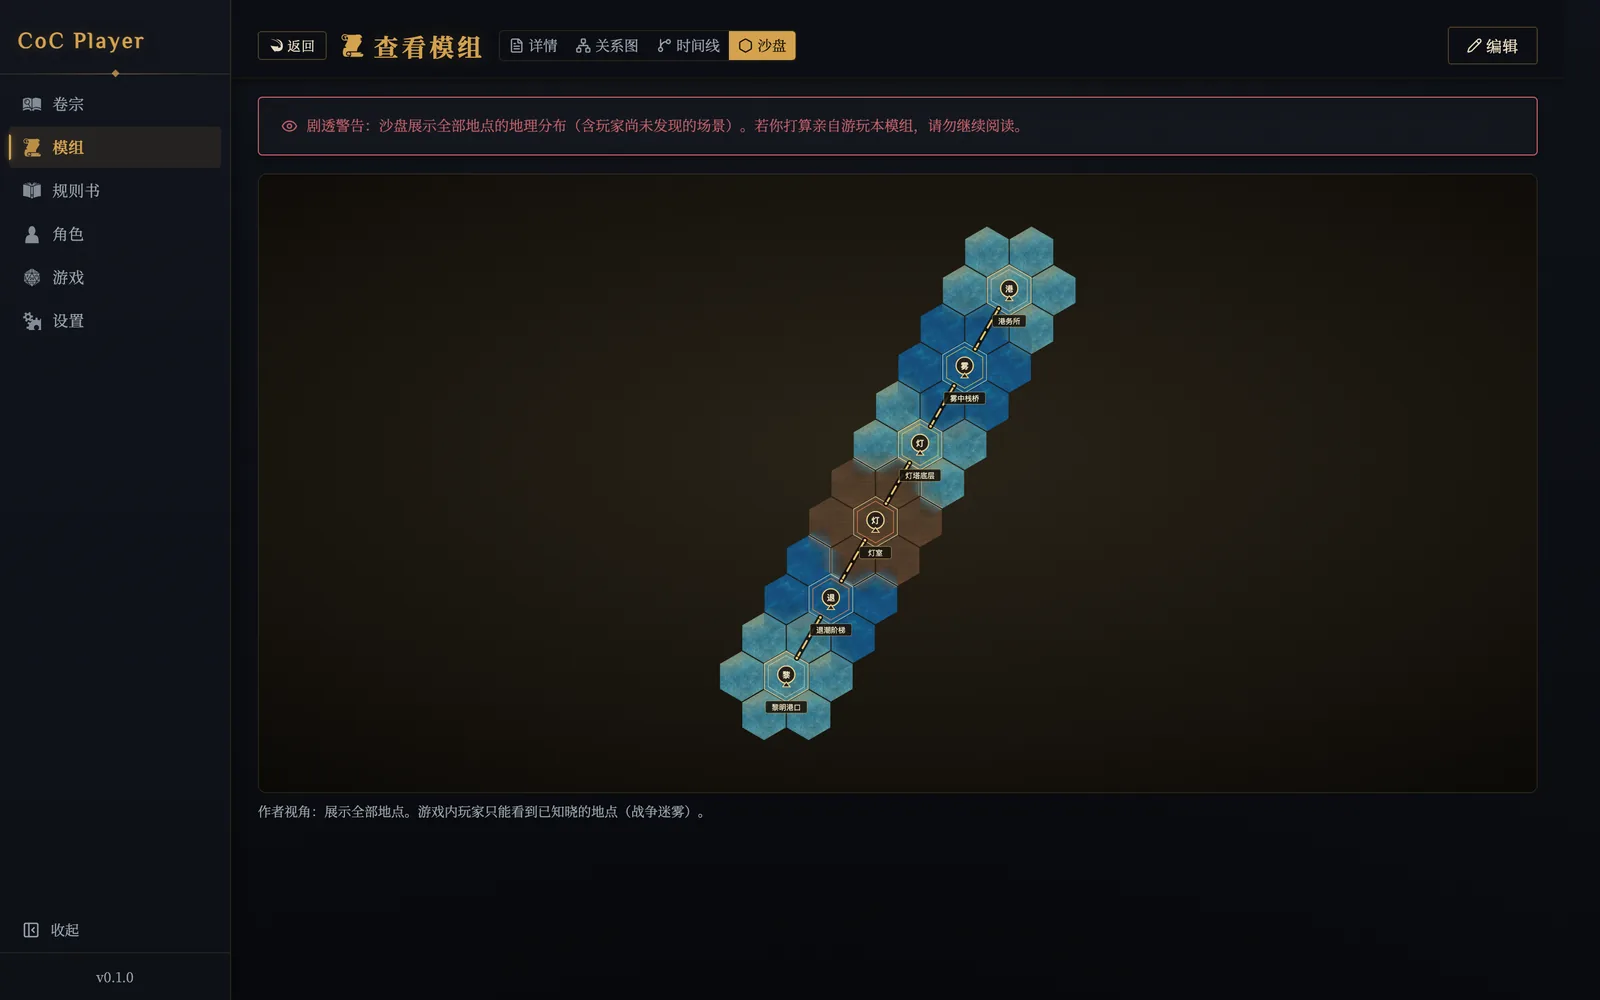
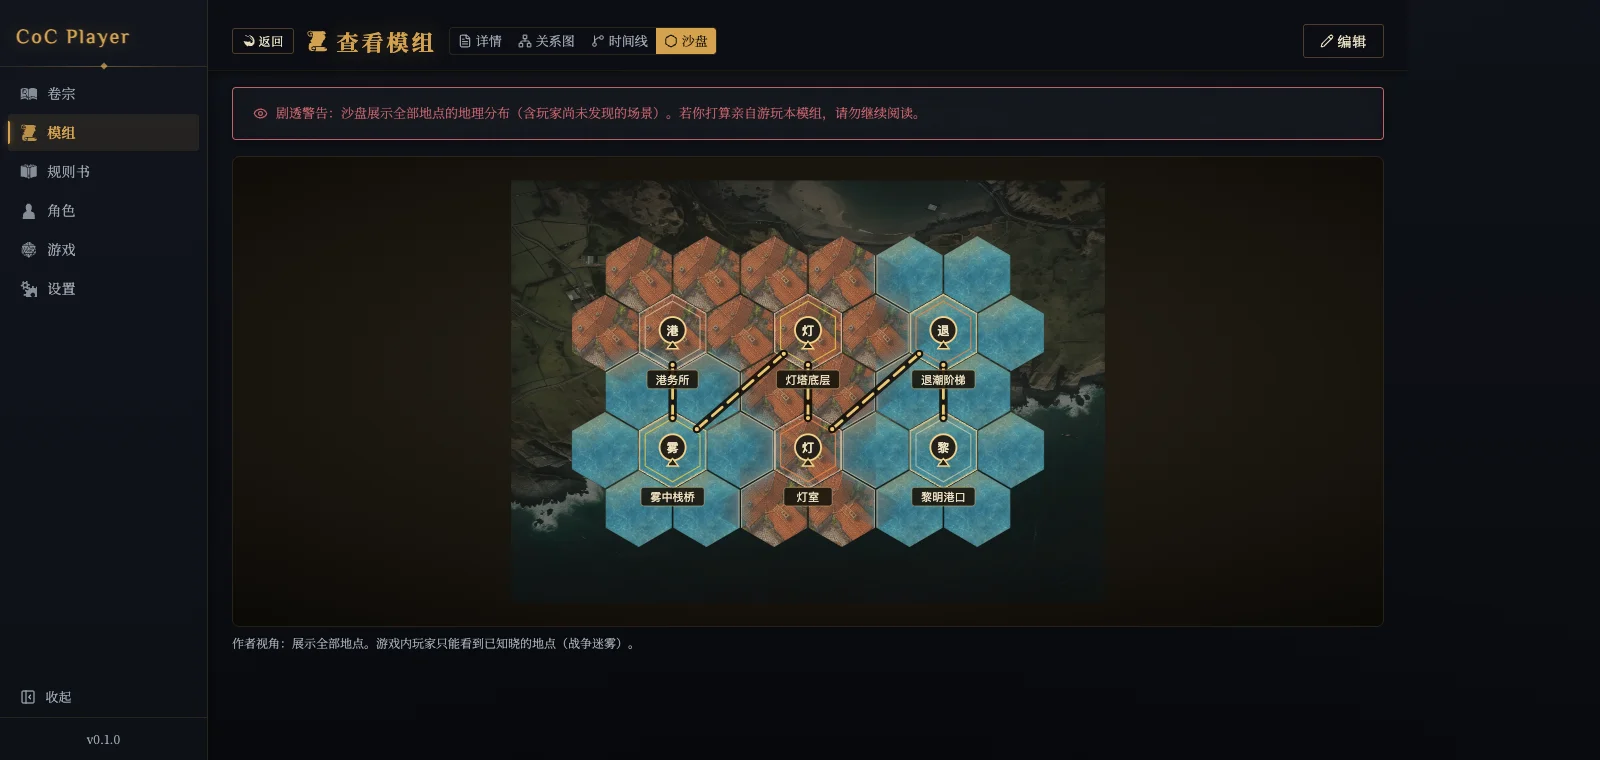
介绍页截图改成一条命令重拍，顺手修掉截错的两页
site/ 那十张图（gothic / parchment 各五张）随界面一起过时了，而介绍页上摆着
过时截图，比文案有 AI 味更容易被人一眼看穿。手动重拍要切两次主题、跑五个页面、
再逐张转 webp，做一次就不想做第二次，所以固化成 pnpm site:shots。

重拍时发现三个问题：

- 「模组沙盘」和「创建角色向导」两张，路径直接给成了 /modules 和 /characters，
  截到的是列表页，跟 alt 描述的六边形沙盘、六步向导对不上。截错页面比截图过时
  更糟，所以脚本里带上到达路径（挑出 alt 点名的那个本子、点进沙盘 / 点开建卡）。
- 设置页截到了本机真实的模型配置，接口地址（含第三方中转站）都在图里，而 site/
  是要公开发布的。这张配的是「接一个模型」那一步，读者正是还没配过的人——拦掉
  接口拿空状态，既贴题又不外泄。
- 高度原先统一给 760，内容少的页（规则书、建卡、设置）截出大半张空背景。改成按
  各页内容量单独给，index.html 的 width/height 同步跟上，CLS 不受影响。

首页只在有开着的桌时才多出「接着玩」一块，高度按没有桌这个下限给；它成了张 3.8:1
的扁图，社交卡片按 1.91:1 裁会切掉大半，og:image 改用比例接近、画面又满的沙盘图。

依赖用 playwright-core 而不是 playwright：后者 postinstall 会拉三套浏览器（几百
MB），而脚本用 channel: 'chrome' 驱动系统已装的 Chrome，那些一个都用不上。

diff --git a/site/index.html b/site/index.html
@@ -10,7 +10,7 @@
 <meta property="og:title" content="CoC Player —— AI 当守秘人的本地跑团桌面应用">
 <meta property="og:description" content="AI 担任守秘人和 NPC，一个人也能开团。本地优先，数据存在自己机器上。macOS / Windows 桌面应用。">
 <!-- 部署到正式域名后，把下面两行换成绝对地址，否则部分平台抓不到预览图 -->
-<meta property="og:image" content="assets/shots/gothic-home.webp">
+<meta property="og:image" content="assets/shots/gothic-sandbox.webp">
 <meta name="twitter:card" content="summary_large_image">
 <meta name="theme-color" content="#0c0e13">
 
@@ -529,8 +529,8 @@
       </div>
 
       <figure class="shot" style="margin-bottom:0">
-        <img src="assets/shots/gothic-home.webp" data-shot="home" width="2000" height="1250"
-             alt="CoC Player 首页：体验新手团、开始游戏、上传模组三个入口，下方是给新人的跑团与 CoC 规则速览">
+        <img src="assets/shots/gothic-home.webp" data-shot="home" width="2000" height="520"
+             alt="CoC Player 首页：体验新手团、开始游戏、上传模组三个入口，底部是一条可展开的新人速览">
       </figure>
       <p class="shot-cap">首页。第一次跑团的人可以直接从「体验新手团」进入原创示例短团《雾港失灯事件》。</p>
     </div>
@@ -653,7 +653,7 @@
           </ul>
         </div>
         <figure class="shot" style="margin-top:0">
-          <img src="assets/shots/gothic-sandbox.webp" data-shot="sandbox" width="1600" height="1000" loading="lazy"
+          <img src="assets/shots/gothic-sandbox.webp" data-shot="sandbox" width="1600" height="760" loading="lazy"
                alt="模组沙盘视图：示例模组《雾港失灯事件》的地点以六边形网格排布，标出港务所、雾中栈桥、灯塔底层、灯室、退潮阶梯与黎明港口之间的通路">
         </figure>
       </div>
@@ -669,7 +669,7 @@
           </ul>
         </div>
         <figure class="shot" style="margin-top:0">
-          <img src="assets/shots/gothic-rulebooks.webp" data-shot="rulebooks" width="1600" height="1000" loading="lazy"
+          <img src="assets/shots/gothic-rulebooks.webp" data-shot="rulebooks" width="1600" height="560" loading="lazy"
                alt="规则书页面：左侧是可逐项调整的村规参数与桌面约定文本框，右侧是已装载规则书的上传区">
         </figure>
       </div>
@@ -685,7 +685,7 @@
           </ul>
         </div>
         <figure class="shot" style="margin-top:0">
-          <img src="assets/shots/gothic-char-wizard.webp" data-shot="char-wizard" width="1600" height="1000" loading="lazy"
+          <img src="assets/shots/gothic-char-wizard.webp" data-shot="char-wizard" width="1600" height="640" loading="lazy"
                alt="创建角色向导：顶部是基本信息、属性设定、职业选择、技能加点、背景故事、随身物品六个步骤，页面提供 Excel 导入与 AI 生成角色卡入口">
         </figure>
       </div>
@@ -744,7 +744,7 @@
       </div>
 
       <figure class="shot">
-        <img src="assets/shots/gothic-settings.webp" data-shot="settings" width="1600" height="1000" loading="lazy"
+        <img src="assets/shots/gothic-settings.webp" data-shot="settings" width="1600" height="560" loading="lazy"
              alt="设置页的 AI 配置面板：分对话模型与生图模型两个标签页，提示还没有启用任何配置，右上角是新增配置按钮">
       </figure>
       <p class="shot-cap">AI 配置面板。对话模型负责叙述、NPC 与裁定；生图模型是可选的，用来给场景和角色配图。</p>
